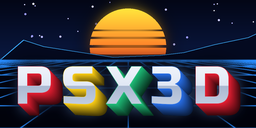
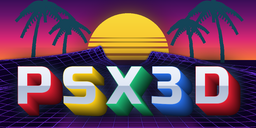
Sunset art: palms, striped sun, wireframe mountains; one (moving) floor grid
Icon, banner, title art and library background redone after the
reference (purple/magenta/orange sky, palm silhouettes, wireframe
hills). The library background no longer bakes in a floor grid; only
the live, scrolling grid is drawn, now in purple.

diff --git a/tools/make_logo.py b/tools/make_logo.py
@@ -37,96 +37,132 @@ def glow(layer, radius, strength=1.0):
         g.putalpha(a)
     return g
 
-def scene(W, H, horizon, show_shapes=True, show_sun=True, show_grid=True):
-    sky = vgrad(W, H, [(0, (3, 6, 22, 255)), (0.45, (10, 24, 64, 255)),
-                       (horizon / H, (30, 90, 170, 255)), (horizon / H + 0.001, (3, 6, 20, 255)),
-                       (1, (1, 2, 10, 255))])
-    d = ImageDraw.Draw(sky)
-    rnd = random.Random(7)
-    for _ in range(int(W * H / 18000)):
-        x, y = rnd.randrange(W), rnd.randrange(int(horizon * 0.8))
-        b = rnd.randrange(150, 255)
-        r = max(1, H // 220) * rnd.choice([1, 1, 2])
-        d.ellipse([x - r, y - r, x + r, y + r], fill=(b, b, 255, 255))
+def palm(d, x0, y0, h, lean, scale, col):
+    """palm tree silhouette: curved trunk and drooping fronds"""
+    pts = []
+    for i in range(21):
+        t = i / 20
+        pts.append((x0 + lean * h * t * t, y0 - h * t))
+    w = max(2, int(scale * 7))
+    for i in range(20):
+        ww = int(w * (1.2 - 0.5 * i / 20))
+        d.line([pts[i], pts[i + 1]], fill=col, width=max(2, ww))
+    tx, ty = pts[-1]
+    for k in range(9):
+        ang = -math.pi * 0.95 + k * (math.pi * 1.9 / 8)
+        L = h * 0.6 * (0.8 + 0.3 * math.sin(k * 2.3))
+        fr = []
+        for j in range(13):
+            t = j / 12
+            fx = tx + math.cos(ang) * L * t
+            fy = ty - math.sin(ang) * L * t * 0.5 + (L * 0.55) * t * t   # droop
+            fr.append((fx, fy))
+        d.line(fr, fill=col, width=max(2, int(scale * 6)))
+        for j in range(2, 12):
+            fx, fy = fr[j]
+            ll = L * 0.28 * (1 - j / 13)
+            for sgn in (-1, 1):
+                d.line([(fx, fy), (fx + sgn * ll * 0.45, fy + ll)], fill=col, width=max(2, int(scale * 3)))
 
-    # a few faint controller shapes among the stars
-    sd = ImageDraw.Draw(sky)
-    shapes = [("tri", (60, 210, 140)), ("circ", (235, 60, 70)), ("cross", (80, 140, 255)), ("sq", (240, 110, 200))]
-    rnd2 = random.Random(11)
-    spots = [(0.09, 0.20), (0.91, 0.16)]
-    for i in range(2 if show_shapes else 0):
-        kind, c = shapes[i % 4]
-        x, y = int(W * spots[i][0]), int(horizon * spots[i][1])
-        r = int(H * 0.035)
-        col = c + (190,)
-        w = max(2, r // 3)
-        if kind == "tri":
-            sd.polygon([(x, y - r), (x - r, y + r * 0.8), (x + r, y + r * 0.8)], outline=col, width=w)
-        elif kind == "circ":
-            sd.ellipse([x - r, y - r, x + r, y + r], outline=col, width=w)
-        elif kind == "cross":
-            sd.line([(x - r, y - r), (x + r, y + r)], fill=col, width=w)
-            sd.line([(x - r, y + r), (x + r, y - r)], fill=col, width=w)
-        else:
-            sd.rectangle([x - r, y - r, x + r, y + r], outline=col, width=w)
 
-    # striped sun
-    R = int(H * 0.30)
-    cx, cy = W // 2, horizon - int(R * 0.35)
+def scene(W, H, horizon, show_shapes=True, show_sun=True, show_grid=True, floor=True):
+    # purple -> magenta -> orange sunset sky
+    sky = vgrad(W, H, [(0, (60, 14, 90, 255)), (0.25 * horizon / H, (110, 20, 110, 255)),
+                       (0.65 * horizon / H, (225, 40, 120, 255)), (horizon / H, (255, 120, 60, 255)),
+                       (horizon / H + 0.001, (20, 4, 50, 255)), (1, (8, 0, 24, 255))])
+
+    # big striped sun
+    R = int(H * 0.32)
+    cx, cy = W // 2, horizon - int(R * 0.15)
     sun = Image.new("RGBA", (W, H), (0, 0, 0, 0))
-    sg = vgrad(2 * R, 2 * R, [(0, (255, 230, 60, 255)), (0.55, (255, 120, 40, 255)), (1, (230, 20, 50, 255))])
-    mask = Image.new("L", (2 * R, 2 * R), 0)
-    md = ImageDraw.Draw(mask)
-    md.ellipse([0, 0, 2 * R - 1, 2 * R - 1], fill=255)
-    # horizontal cut stripes, thicker toward the bottom
-    y, gap = int(R * 0.55), max(2, R // 22)
-    while y < 2 * R:
-        md.rectangle([0, y, 2 * R, y + gap], fill=0)
-        y += gap * 3 + int((2 * R - y) * 0.05)
-        gap += max(1, R // 60)
-    sun.paste(sg, (cx - R, cy - R), mask)
-    # the sun sets behind the horizon: nothing of it below
-    ImageDraw.Draw(sun).rectangle([0, horizon, W, H], fill=(0, 0, 0, 0))
     if show_sun:
-        sky = Image.alpha_composite(sky, glow(sun, R * 0.25, 1.6))
+        sg = vgrad(2 * R, 2 * R, [(0, (255, 225, 60, 255)), (0.6, (255, 190, 40, 255)), (1, (255, 120, 40, 255))])
+        mask = Image.new("L", (2 * R, 2 * R), 0)
+        md = ImageDraw.Draw(mask)
+        md.ellipse([0, 0, 2 * R - 1, 2 * R - 1], fill=255)
+        y, gap = int(R * 0.6), max(2, R // 45)
+        while y < 2 * R:
+            md.rectangle([0, y, 2 * R, y + gap], fill=0)
+            gap += max(1, R // 70)
+            y += gap * 3
+        sun.paste(sg, (cx - R, cy - R), mask)
+        ImageDraw.Draw(sun).rectangle([0, horizon, W, H], fill=(0, 0, 0, 0))
+        sky = Image.alpha_composite(sky, glow(sun, R * 0.3, 1.4))
         sky = Image.alpha_composite(sky, sun)
 
-    # mountains with a neon rim
-    mtn = Image.new("RGBA", (W, H), (0, 0, 0, 0))
-    md = ImageDraw.Draw(mtn)
-    pts = [(0, horizon)]
-    rnd = random.Random(3)
-    x = 0
-    while x < W:
-        x += rnd.randrange(W // 16, W // 7)
-        far_from_sun = abs(x - cx) / (W / 2)
-        pts.append((x, horizon - int(H * (0.03 + 0.22 * far_from_sun ** 1.5) * rnd.uniform(0.55, 1.0))))
-    pts.append((W, horizon))
-    md.polygon(pts, fill=(4, 10, 32, 255))
-    md.line(pts, fill=(60, 170, 255, 255), width=max(1, H // 160))
-    sky = Image.alpha_composite(sky, glow(mtn, H / 200, 1.0))
-    sky = Image.alpha_composite(sky, mtn)
+    # palm silhouettes (dark teal), two per side
+    pl = Image.new("RGBA", (W, H), (0, 0, 0, 0))
+    pd = ImageDraw.Draw(pl)
+    col = (20, 70, 90, 255)
+    sc = H / 240
+    for x, hh, lean in ((0.13, 0.46, 0.18), (0.25, 0.32, 0.12), (0.75, 0.32, -0.12), (0.87, 0.46, -0.18)):
+        palm(pd, W * x, horizon + H * 0.02, H * hh, lean, sc, col)
+    sky = Image.alpha_composite(sky, pl)
 
     if not show_grid:
-        return sky
-    # perspective grid floor
-    grid = Image.new("RGBA", (W, H), (0, 0, 0, 0))
-    gd = ImageDraw.Draw(grid)
-    lw = max(2, H // 110)
-    col = (40, 140, 255, 255)
-    for i in range(-12, 13):
-        gd.line([(cx + i * W * 0.04, horizon), (cx + i * W * 0.42, H)], fill=col, width=lw)
-    k = 0
-    while True:
-        t = (k / 6.0) ** 2.2
-        y = horizon + t * (H - horizon)
-        if y > H:
-            break
-        gd.line([(0, y), (W, y)], fill=col, width=lw)
-        k += 1
-    sky = Image.alpha_composite(sky, glow(grid, H / 120, 1.1))
-    sky = Image.alpha_composite(sky, grid)
-    return sky
+        floor_grid = False
+    else:
+        floor_grid = True
+
+    # wireframe mountains on the sides + flat grid floor, drawn as a mesh
+    mesh = Image.new("RGBA", (W, H), (0, 0, 0, 0))
+    md = ImageDraw.Draw(mesh)
+    cols, rows = 48, 22
+    lw = max(1, int(H / 200))
+
+    def height(u, v):
+        side = min(1.0, abs(u - 0.5) / 0.5)
+        side = max(0.0, (side - 0.35) / 0.65)
+        n = (math.sin(u * 23 + v * 3) * 0.5 + math.sin(u * 11 - v * 7) * 0.3 + math.sin(u * 37) * 0.2)
+        return side * (0.75 + 0.45 * n) * (1 - v * 0.5)
+
+    def proj(u, v):
+        z = 0.08 + v ** 1.6 * 1.0               # v=0 far (horizon), v=1 near
+        x = cx + (u - 0.5) * W * 3.0 * z
+        y = horizon + z * (H - horizon) * 1.05 - height(u, v) * H * 0.34 * (0.4 + z)
+        return x, y
+
+    def cl(v):
+        return lerp((60, 70, 255, 255), (190, 40, 255, 255), v)
+
+    def seg_ok(u0, v0, u1, v1):
+        return floor or height(u0, v0) > 0.03 or height(u1, v1) > 0.03
+
+    for r in range(rows + 1):
+        v = r / rows
+        for c in range(cols):
+            if seg_ok(c / cols, v, (c + 1) / cols, v):
+                md.line([proj(c / cols, v), proj((c + 1) / cols, v)], fill=cl(v), width=lw)
+    for c in range(cols + 1):
+        u = c / cols
+        for r in range(rows):
+            if seg_ok(u, r / rows, u, (r + 1) / rows):
+                md.line([proj(u, r / rows), proj(u, (r + 1) / rows)], fill=cl(0.5), width=lw)
+    # dark fill under the mesh lines so it occludes the sky below the horizon
+    floor = Image.new("RGBA", (W, H), (0, 0, 0, 0))
+    fd = ImageDraw.Draw(floor)
+    for r in range(rows * 2):
+        v0, v1 = r / (rows * 2), (r + 1) / (rows * 2)
+        for c in range(cols * 2):
+            u0, u1 = c / (cols * 2), (c + 1) / (cols * 2)
+            fd.polygon([proj(u0, v0), proj(u1, v0), proj(u1, v1), proj(u0, v1)], fill=(14, 0, 40, 255))
+    sky = Image.alpha_composite(sky, floor)
+    # magenta glow down the centre of the floor
+    g = Image.new("RGBA", (W, H), (0, 0, 0, 0))
+    if floor:
+        ImageDraw.Draw(g).polygon([(cx - W * 0.08, horizon), (cx + W * 0.08, horizon), (cx + W * 0.3, H), (cx - W * 0.3, H)],
+                                  fill=(200, 40, 230, 110))
+    sky = Image.alpha_composite(sky, g.filter(ImageFilter.GaussianBlur(H / 25)))
+    sky = Image.alpha_composite(sky, glow(mesh, H / 140, 1.3))
+    sky = Image.alpha_composite(sky, mesh)
+
+    # faint scanlines
+    sl = Image.new("RGBA", (W, H), (0, 0, 0, 0))
+    sd = ImageDraw.Draw(sl)
+    step = max(2, H // 120)
+    for y in range(0, H, step):
+        sd.line([(0, y), (W, y)], fill=(0, 0, 0, 28))
+    return Image.alpha_composite(sky, sl)
 
 PS = {"P": (230, 30, 50), "S": (250, 205, 20), "X": (30, 190, 120), "3": (40, 110, 230), "D": (230, 30, 50)}
 
@@ -212,7 +248,7 @@ banner = compose(1024, 512, 240, 215, 365, show_shapes=False)
 banner.resize((256, 128), Image.LANCZOS).save(f"{OUT}/banner.png")
 
 # icon: the whole name, stacked PSX over 3D, chunky enough for 48x48
-ic = scene(384, 384, 300, show_shapes=False, show_sun=False)
+ic = scene(384, 384, 300, show_shapes=False)
 top = wordmark("PSX", 126)
 bot = wordmark("3D", 158)
 for wm_, cy_ in ((top, 116), (bot, 262)):
@@ -225,6 +261,6 @@ print("ok")
 
 # library background: the scene without the logo, sun lower and dimmer so
 # box art stands out in front of it
-bg = scene(400, 240, 150, show_shapes=False, show_grid=False)  # grid is drawn live
-dim = Image.new("RGBA", bg.size, (0, 0, 0, 90))
+bg = scene(400, 240, 150, show_shapes=False, floor=False)   # the floor grid is drawn live
+dim = Image.new("RGBA", bg.size, (0, 0, 0, 50))
 Image.alpha_composite(bg, dim).convert("RGB").save(f"{OUT}/library_bg.png")

diff --git a/psx3d/source/libui.c b/psx3d/source/libui.c
@@ -118,7 +118,7 @@ static void draw_cover(int i, float cx, float cy, float size, float dim, float z
 static void draw_grid(void)
 {
 	const float hy = 150, cx = 200;
-	u32 col = C2D_Color32(40, 140, 255, 255), glow = C2D_Color32(40, 140, 255, 70);
+	u32 col = C2D_Color32(170, 60, 255, 255), glow = C2D_Color32(190, 50, 255, 70);
 	float scroll = fmodf(clock_s * 0.35f, 1.0f);
 	for (int k = 0; k < 9; k++) {
 		float u = (k + scroll) / 8.0f;           // 0 at the horizon .. 1 at the bottom
